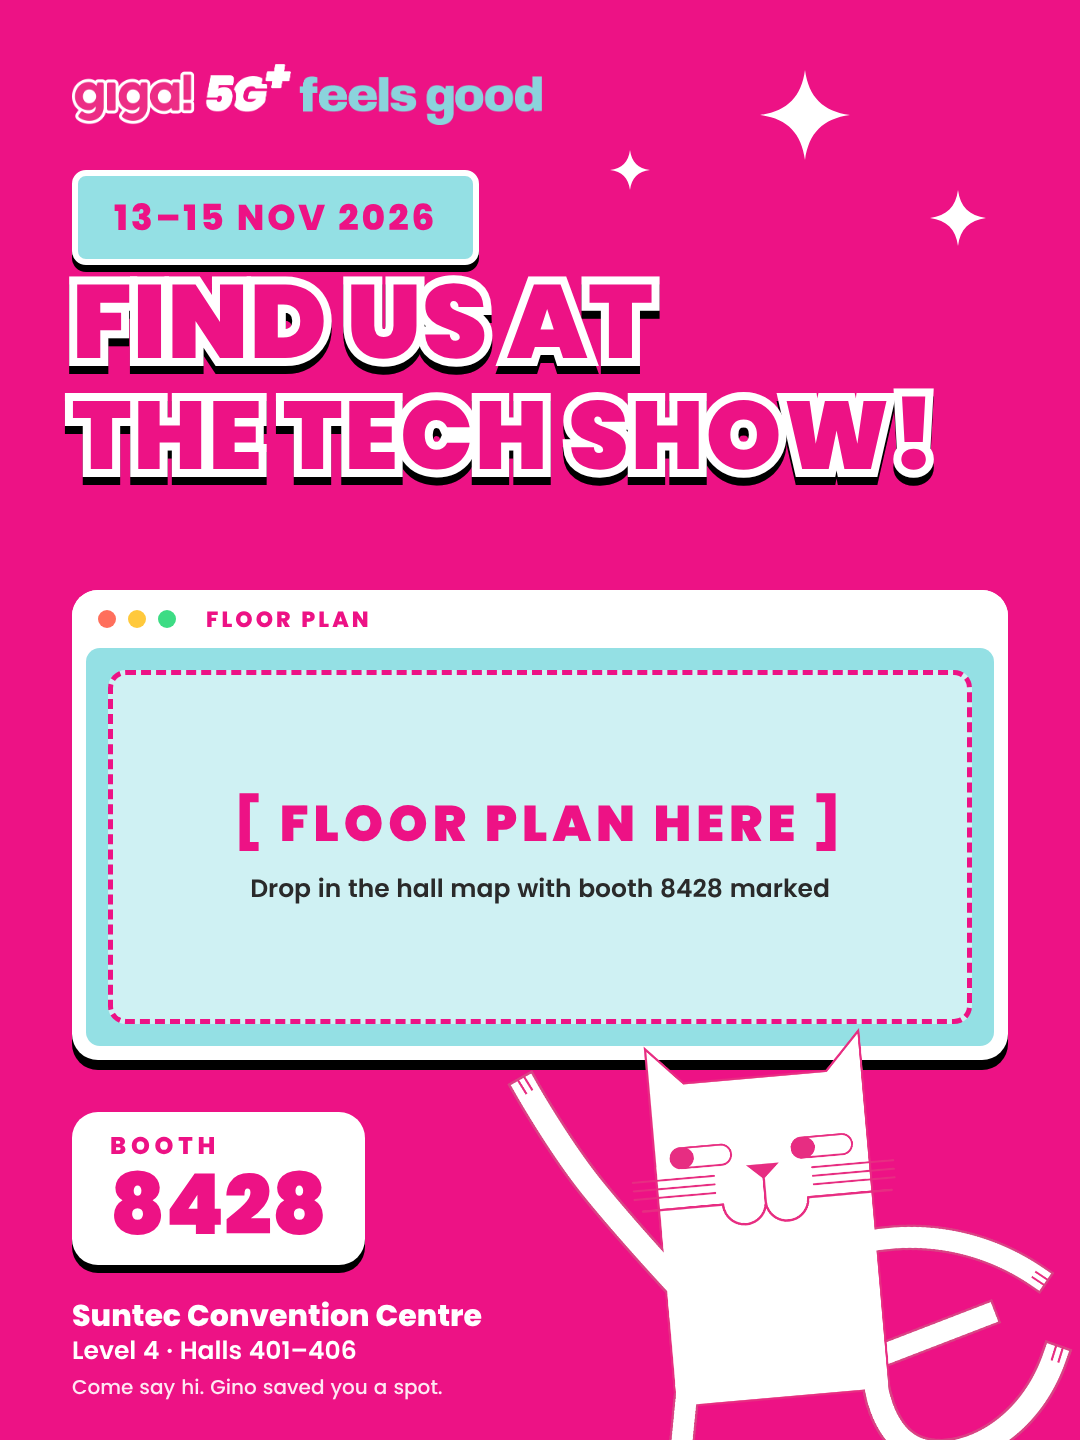
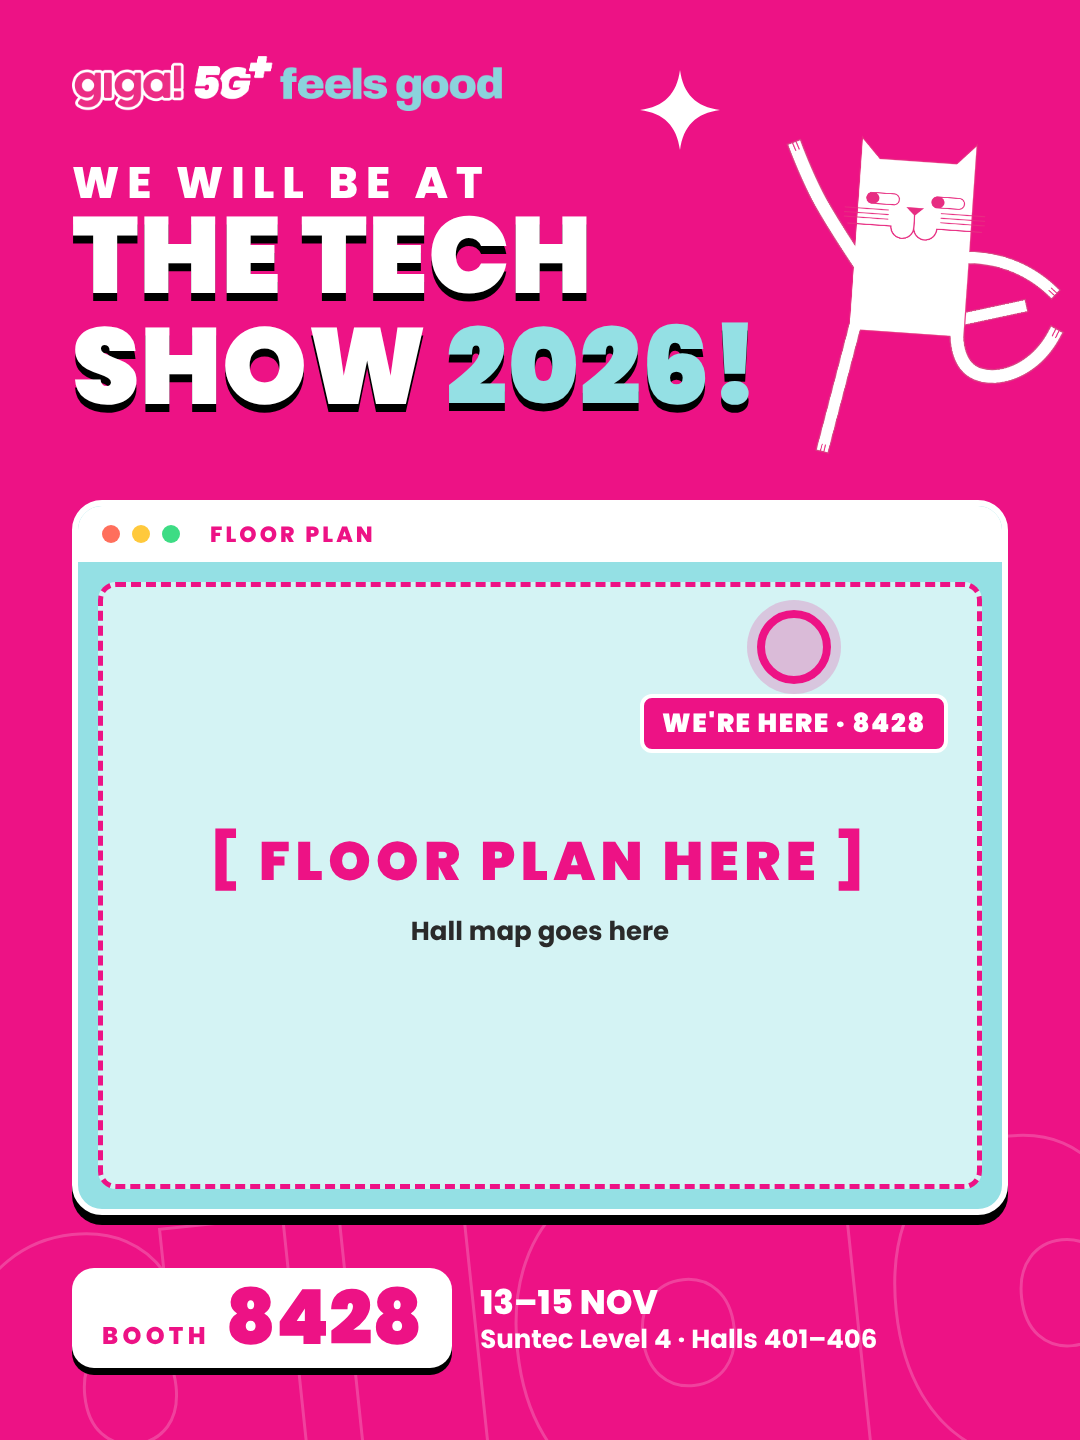
Redesign Tech Show post 1: bigger floor plan, shorter copy, own layout
Claude-Session: https://claude.ai/code/session_01QpHBCYvf2HgUsT79rZy6ps

diff --git a/giga-tech-show/post-1-find-us.html b/giga-tech-show/post-1-find-us.html
@@ -5,71 +5,72 @@
 <title>giga! x The Tech Show 2026 — Post 1: Find us</title>
 <style>
 @font-face{font-family:Poppins;font-weight:500;src:url(assets/fonts/Poppins-Medium.ttf)}
-@font-face{font-family:Poppins;font-weight:600;src:url(assets/fonts/Poppins-SemiBold.ttf)}
 @font-face{font-family:Poppins;font-weight:700;src:url(assets/fonts/Poppins-Bold.ttf)}
 @font-face{font-family:Poppins;font-weight:800;src:url(assets/fonts/Poppins-ExtraBold.ttf)}
 @font-face{font-family:Poppins;font-weight:900;src:url(assets/fonts/Poppins-Black.ttf)}
-:root{--pink:#ED1285;--teal:#94E0E4;--black:#000;--white:#fff;--coral:#FF6F5C;--deep:#B80B68}
+:root{--pink:#ED1285;--teal:#94E0E4;--black:#000;--white:#fff;--coral:#FF6F5C}
 *{box-sizing:border-box;margin:0;padding:0}
 html,body{background:#ddd}
 /* 3:4 portrait social canvas */
 .post{position:relative;width:1080px;height:1440px;overflow:hidden;background:var(--pink);font-family:Poppins,sans-serif;color:var(--white)}
+.logo{position:absolute;left:72px;top:56px;width:430px}
 .spark{position:absolute;fill:var(--white)}
-.logo{position:absolute;left:72px;top:64px;width:470px}
 
-.chip{position:absolute;left:72px;top:170px;background:var(--teal);color:var(--pink);font-weight:800;font-size:36px;letter-spacing:.08em;padding:14px 36px;border-radius:14px;border:6px solid var(--white);box-shadow:0 7px 0 var(--black)}
-
-.headline{position:absolute;left:72px;top:270px;font-weight:900;text-transform:uppercase;line-height:1;color:var(--pink);
-  -webkit-text-stroke:16px var(--white);paint-order:stroke fill;filter:drop-shadow(0 8px 0 var(--black))}
+.pre{position:absolute;left:72px;top:150px;font-weight:800;font-size:44px;letter-spacing:.18em}
+.headline{position:absolute;left:72px;top:200px;font-weight:900;font-size:108px;line-height:1.03;text-transform:uppercase;color:var(--white);text-shadow:0 8px 0 var(--black);letter-spacing:.005em}
 .headline span{display:block}
-.headline .l1{font-size:104px;letter-spacing:.01em}
-.headline .l2{font-size:96px;letter-spacing:.025em;margin-top:14px}
+.headline em{font-style:normal;color:var(--teal)}
+.mark{position:absolute;left:-60px;bottom:-130px;font-weight:900;font-size:560px;line-height:1;color:transparent;-webkit-text-stroke:3px rgba(255,255,255,.2);transform:rotate(-6deg);white-space:nowrap}
+.gino{position:absolute;right:14px;top:140px;width:290px;z-index:3;transform:rotate(4deg)}
 
-/* floor-plan window (matches the browser-window cards in the promo posts) */
-.window{position:absolute;left:72px;top:590px;width:936px;height:470px;background:var(--white);border-radius:26px;overflow:hidden;box-shadow:0 10px 0 var(--black);z-index:2}
-.bar{height:58px;background:var(--white);display:flex;align-items:center;gap:12px;padding-left:26px}
+/* big floor-plan window: teal frame so white Gino stays readable against it */
+.window{position:absolute;left:72px;top:500px;width:936px;height:715px;background:var(--teal);border-radius:30px;overflow:hidden;box-shadow:0 10px 0 var(--black);z-index:2;border:6px solid var(--white)}
+.bar{height:56px;display:flex;align-items:center;gap:12px;padding-left:24px;background:var(--white)}
 .bar i{width:18px;height:18px;border-radius:50%;display:block}
 .bar i:nth-child(1){background:var(--coral)}.bar i:nth-child(2){background:#FFC93C}.bar i:nth-child(3){background:#3DDC84}
 .bar b{margin-left:18px;color:var(--pink);font-weight:800;font-size:22px;letter-spacing:.14em}
-.screen{position:absolute;left:14px;right:14px;top:58px;bottom:14px;background:var(--teal);border-radius:14px;display:flex;align-items:center;justify-content:center}
-.ph{width:calc(100% - 44px);height:calc(100% - 44px);border:5px dashed var(--pink);border-radius:18px;background:rgba(255,255,255,.55);display:flex;flex-direction:column;align-items:center;justify-content:center;text-align:center;color:var(--pink)}
-.ph strong{font-weight:900;font-size:50px;letter-spacing:.1em}
-.ph span{font-weight:600;font-size:25px;color:#2a2a2a;margin-top:8px}
+.screen{position:absolute;left:0;right:0;top:56px;bottom:0;display:flex;align-items:center;justify-content:center}
+.ph{width:calc(100% - 40px);height:calc(100% - 40px);border:5px dashed var(--pink);border-radius:18px;background:rgba(255,255,255,.6);display:flex;flex-direction:column;align-items:center;justify-content:center;text-align:center;color:var(--pink)}
+.ph strong{font-weight:900;font-size:54px;letter-spacing:.1em}
+.ph span{font-weight:700;font-size:26px;color:#2a2a2a;margin-top:10px}
 
-.gino{position:absolute;right:10px;bottom:-190px;width:540px;z-index:3;transform:rotate(-5deg)}
+/* booth highlight marker: move this to booth 8428 once the floor plan is dropped in */
+.marker{position:absolute;left:640px;top:610px;z-index:3;text-align:center}
+.marker .ring{width:74px;height:74px;border-radius:50%;border:8px solid var(--pink);background:rgba(237,18,133,.25);margin:0 auto;box-shadow:0 0 0 10px rgba(237,18,133,.2)}
+.marker .lbl{margin-top:10px;background:var(--pink);color:var(--white);font-weight:900;font-size:26px;letter-spacing:.06em;padding:6px 18px;border-radius:12px;white-space:nowrap;border:4px solid var(--white)}
 
-.booth{position:absolute;left:72px;top:1112px;background:var(--white);color:var(--pink);border-radius:26px;padding:16px 38px 18px;box-shadow:0 8px 0 var(--black);z-index:2}
-.booth small{display:block;font-weight:800;font-size:24px;letter-spacing:.2em}
-.booth strong{display:block;font-weight:900;font-size:84px;line-height:1}
-.where{position:absolute;left:72px;top:1296px;width:520px;font-weight:800;font-size:30px;line-height:1.3;z-index:2}
-.where span{display:block;font-weight:600;font-size:25px}
-.fine{position:absolute;left:72px;bottom:38px;font-weight:500;font-size:20px;color:rgba(255,255,255,.9)}
-</style>
-</head>
+/* bottom strip */
+.strip{position:absolute;left:72px;right:72px;top:1268px;display:flex;align-items:center;gap:28px}
+.booth{background:var(--white);color:var(--pink);border-radius:22px;padding:12px 30px;box-shadow:0 7px 0 var(--black);display:flex;align-items:baseline;gap:16px}
+.booth small{font-weight:800;font-size:24px;letter-spacing:.18em}
+.booth strong{font-weight:900;font-size:76px;line-height:1}
+.when{font-weight:800;font-size:34px;line-height:1.25}
+.when span{display:block;font-weight:600;font-size:26px}
+.fine{position:absolute;left:72px;bottom:34px;font-weight:500;font-size:20px;color:rgba(255,255,255,.9)}
+</style></head>
 <body>
 <div class="post" id="post">
-  <svg class="spark" style="left:760px;top:70px" width="90" height="90" viewBox="0 0 100 100"><path d="M50 0C54 30 70 46 100 50 70 54 54 70 50 100 46 70 30 54 0 50 30 46 46 30 50 0Z"/></svg>
-  <svg class="spark" style="left:930px;top:190px" width="56" height="56" viewBox="0 0 100 100"><path d="M50 0C54 30 70 46 100 50 70 54 54 70 50 100 46 70 30 54 0 50 30 46 46 30 50 0Z"/></svg>
-  <svg class="spark" style="left:610px;top:150px" width="40" height="40" viewBox="0 0 100 100"><path d="M50 0C54 30 70 46 100 50 70 54 54 70 50 100 46 70 30 54 0 50 30 46 46 30 50 0Z"/></svg>
-
+  <div class="mark">giga!</div>
   <img class="logo" src="assets/logo-lockup-onpink.png" alt="giga! 5G+ feels good">
+  <svg class="spark" style="left:640px;top:70px" width="80" height="80" viewBox="0 0 100 100"><path d="M50 0C54 30 70 46 100 50 70 54 54 70 50 100 46 70 30 54 0 50 30 46 46 30 50 0Z"/></svg>
 
-  <div class="chip">13–15 NOV 2026</div>
+  <div class="pre">WE WILL BE AT</div>
+  <h1 class="headline"><span>The Tech</span><span>Show <em>2026!</em></span></h1>
 
-  <h1 class="headline"><span class="l1">Find us at</span><span class="l2">The Tech Show!</span></h1>
+  <img class="gino" src="assets/gino-wave.png" alt="Gino waving">
 
   <div class="window" data-placeholder="floor-plan">
     <div class="bar"><i></i><i></i><i></i><b>FLOOR PLAN</b></div>
     <div class="screen">
-      <div class="ph"><strong>[ FLOOR PLAN HERE ]</strong><span>Drop in the hall map with booth 8428 marked</span></div>
+      <div class="ph"><strong>[ FLOOR PLAN HERE ]</strong><span>Hall map goes here</span></div>
     </div>
   </div>
+  <div class="marker" id="booth-marker"><div class="ring"></div><div class="lbl">WE'RE HERE · 8428</div></div>
 
-  <img class="gino" src="assets/gino-wave.png" alt="Gino waving">
-
-  <div class="booth"><small>BOOTH</small><strong>8428</strong></div>
-  <div class="where">Suntec Convention Centre<span>Level 4 · Halls 401–406</span></div>
-  <div class="fine">Come say hi. Gino saved you a spot.</div>
+  <div class="strip">
+    <div class="booth"><small>BOOTH</small><strong>8428</strong></div>
+    <div class="when">13–15 NOV<span>Suntec Level 4 · Halls 401–406</span></div>
+  </div>
 </div>
 </body>
 </html>

diff --git a/giga-tech-show/check-fonts.js b/giga-tech-show/check-fonts.js
@@ -1,0 +1,6 @@
+const { chromium } = require('playwright'); const path=require('path');
+(async()=>{const b=await chromium.launch();const p=await b.newPage();await p.goto('file://'+path.resolve(process.argv[2]));
+await p.evaluate(()=>document.fonts.ready);
+console.log(await p.evaluate(()=>[...document.fonts].map(f=>f.family+' '+f.weight+' '+f.status).join('\n')));
+console.log('headline width',await p.evaluate(()=>document.querySelector('.headline').getBoundingClientRect().width));
+await b.close()})()
